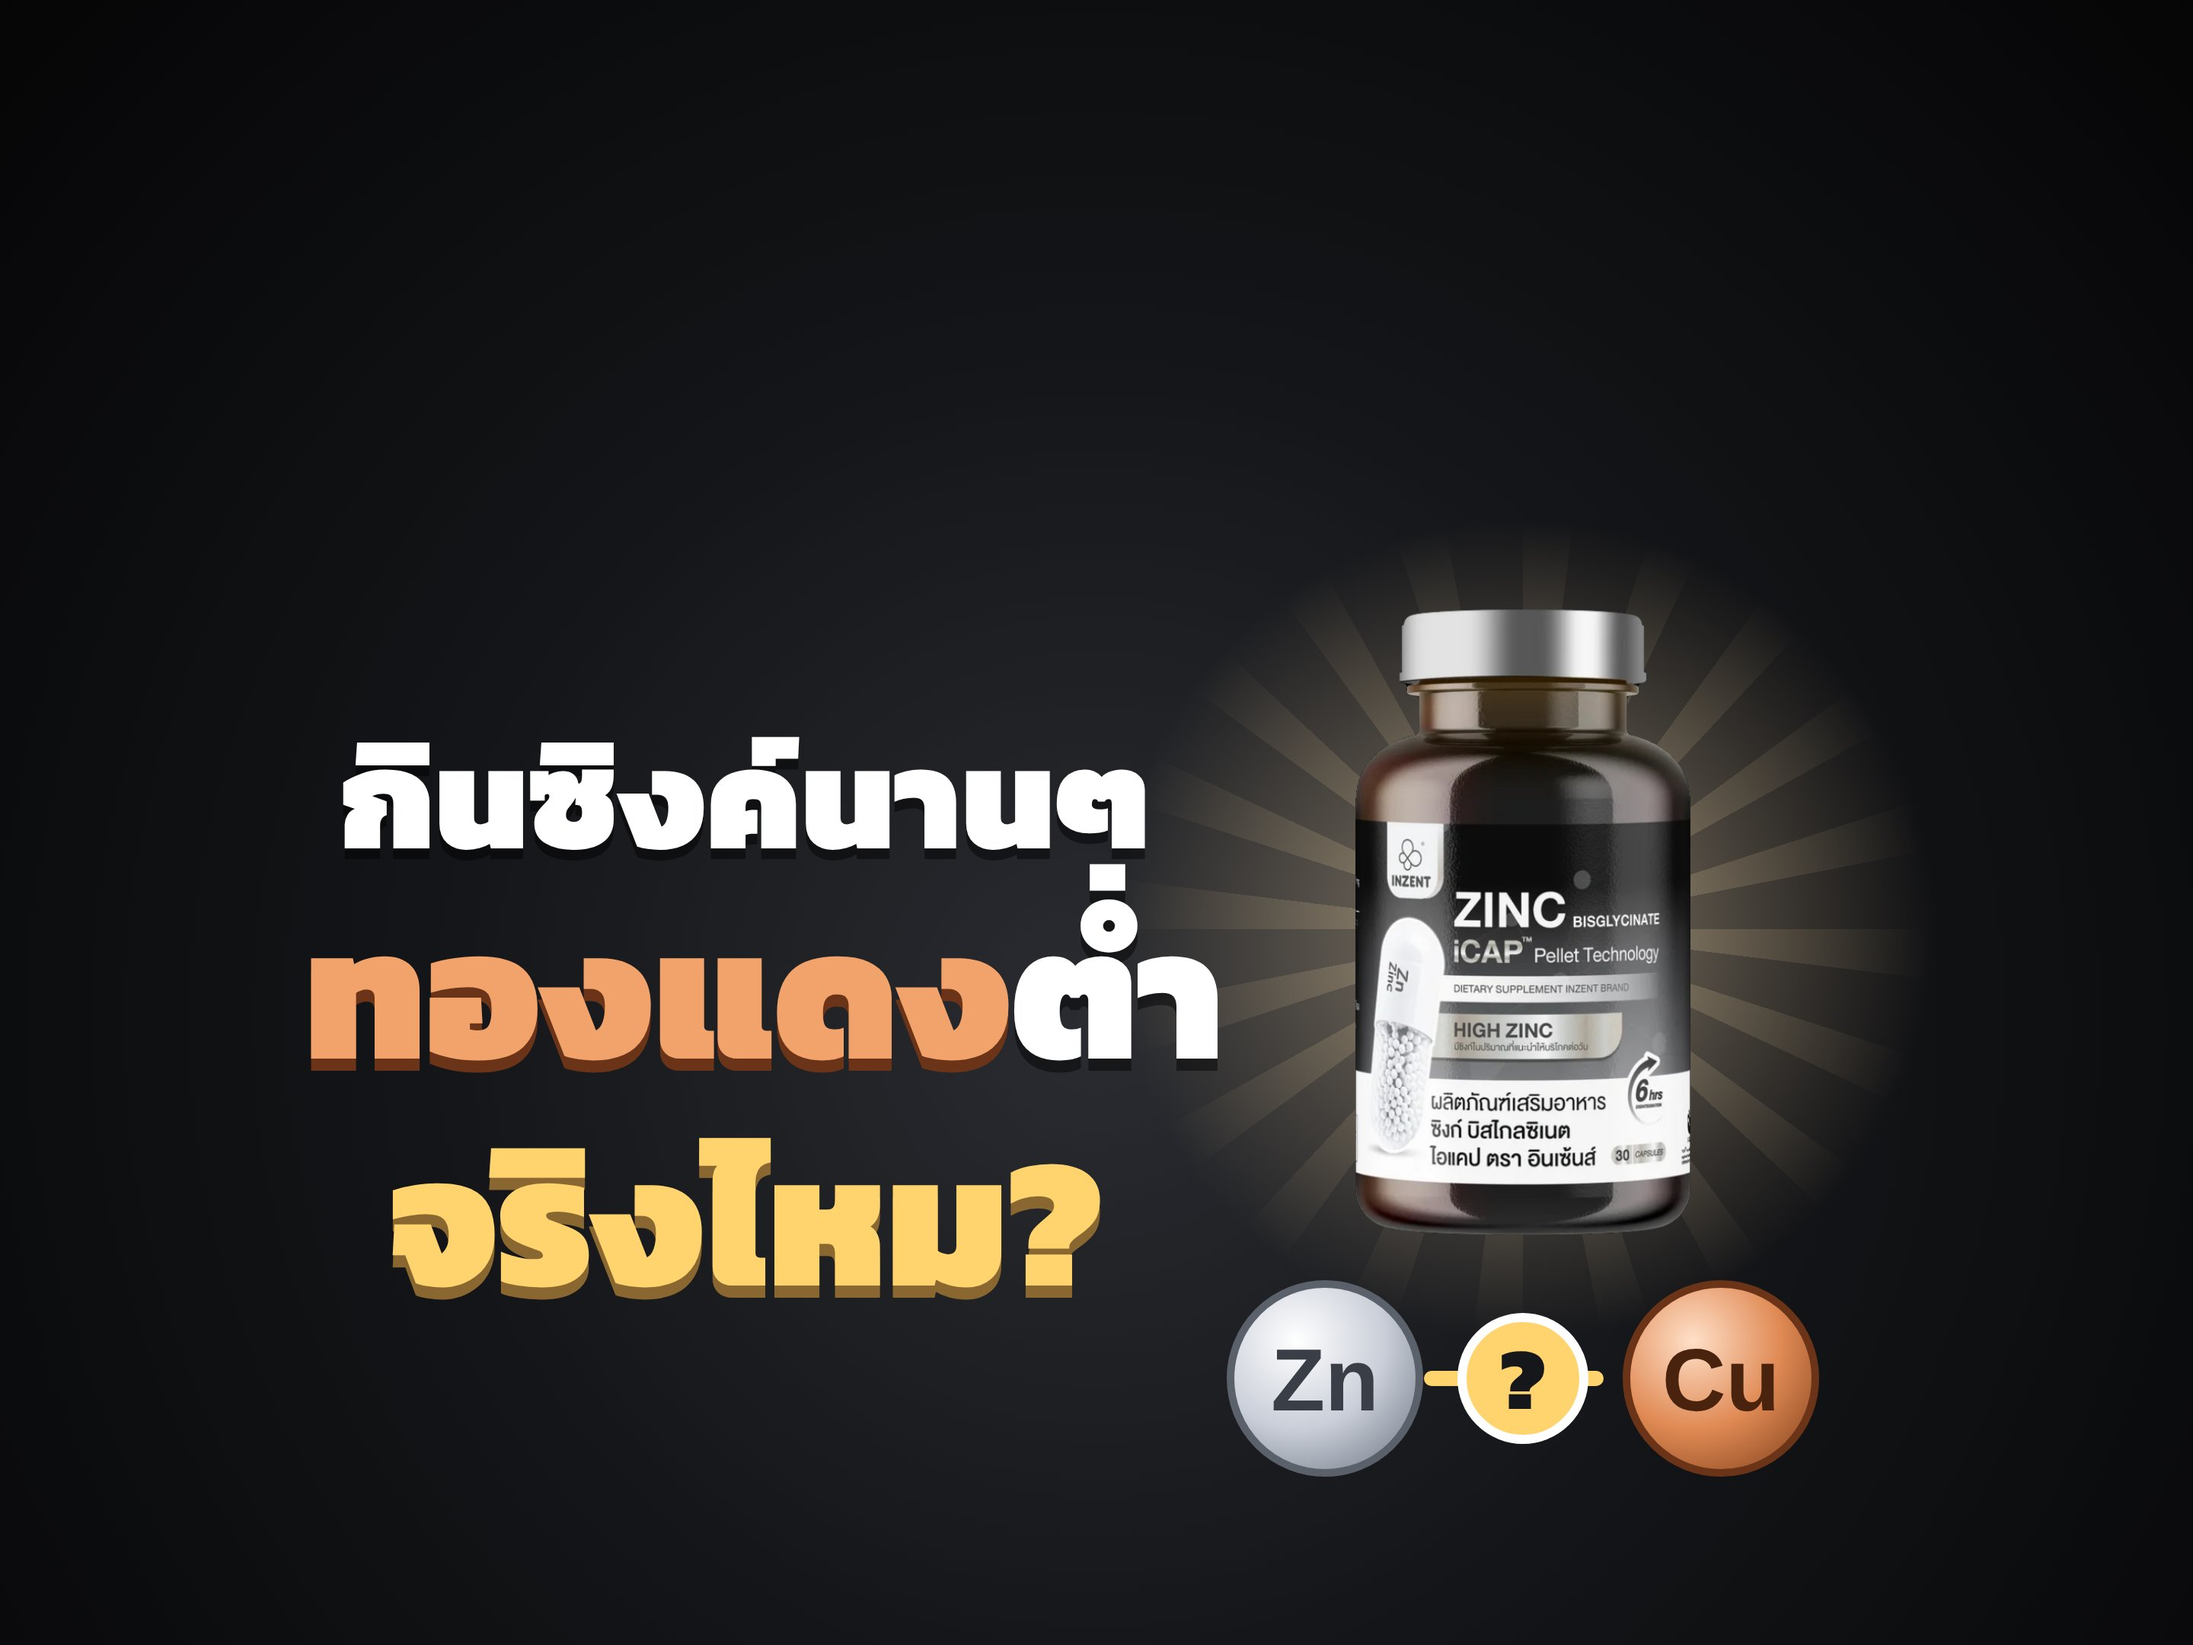
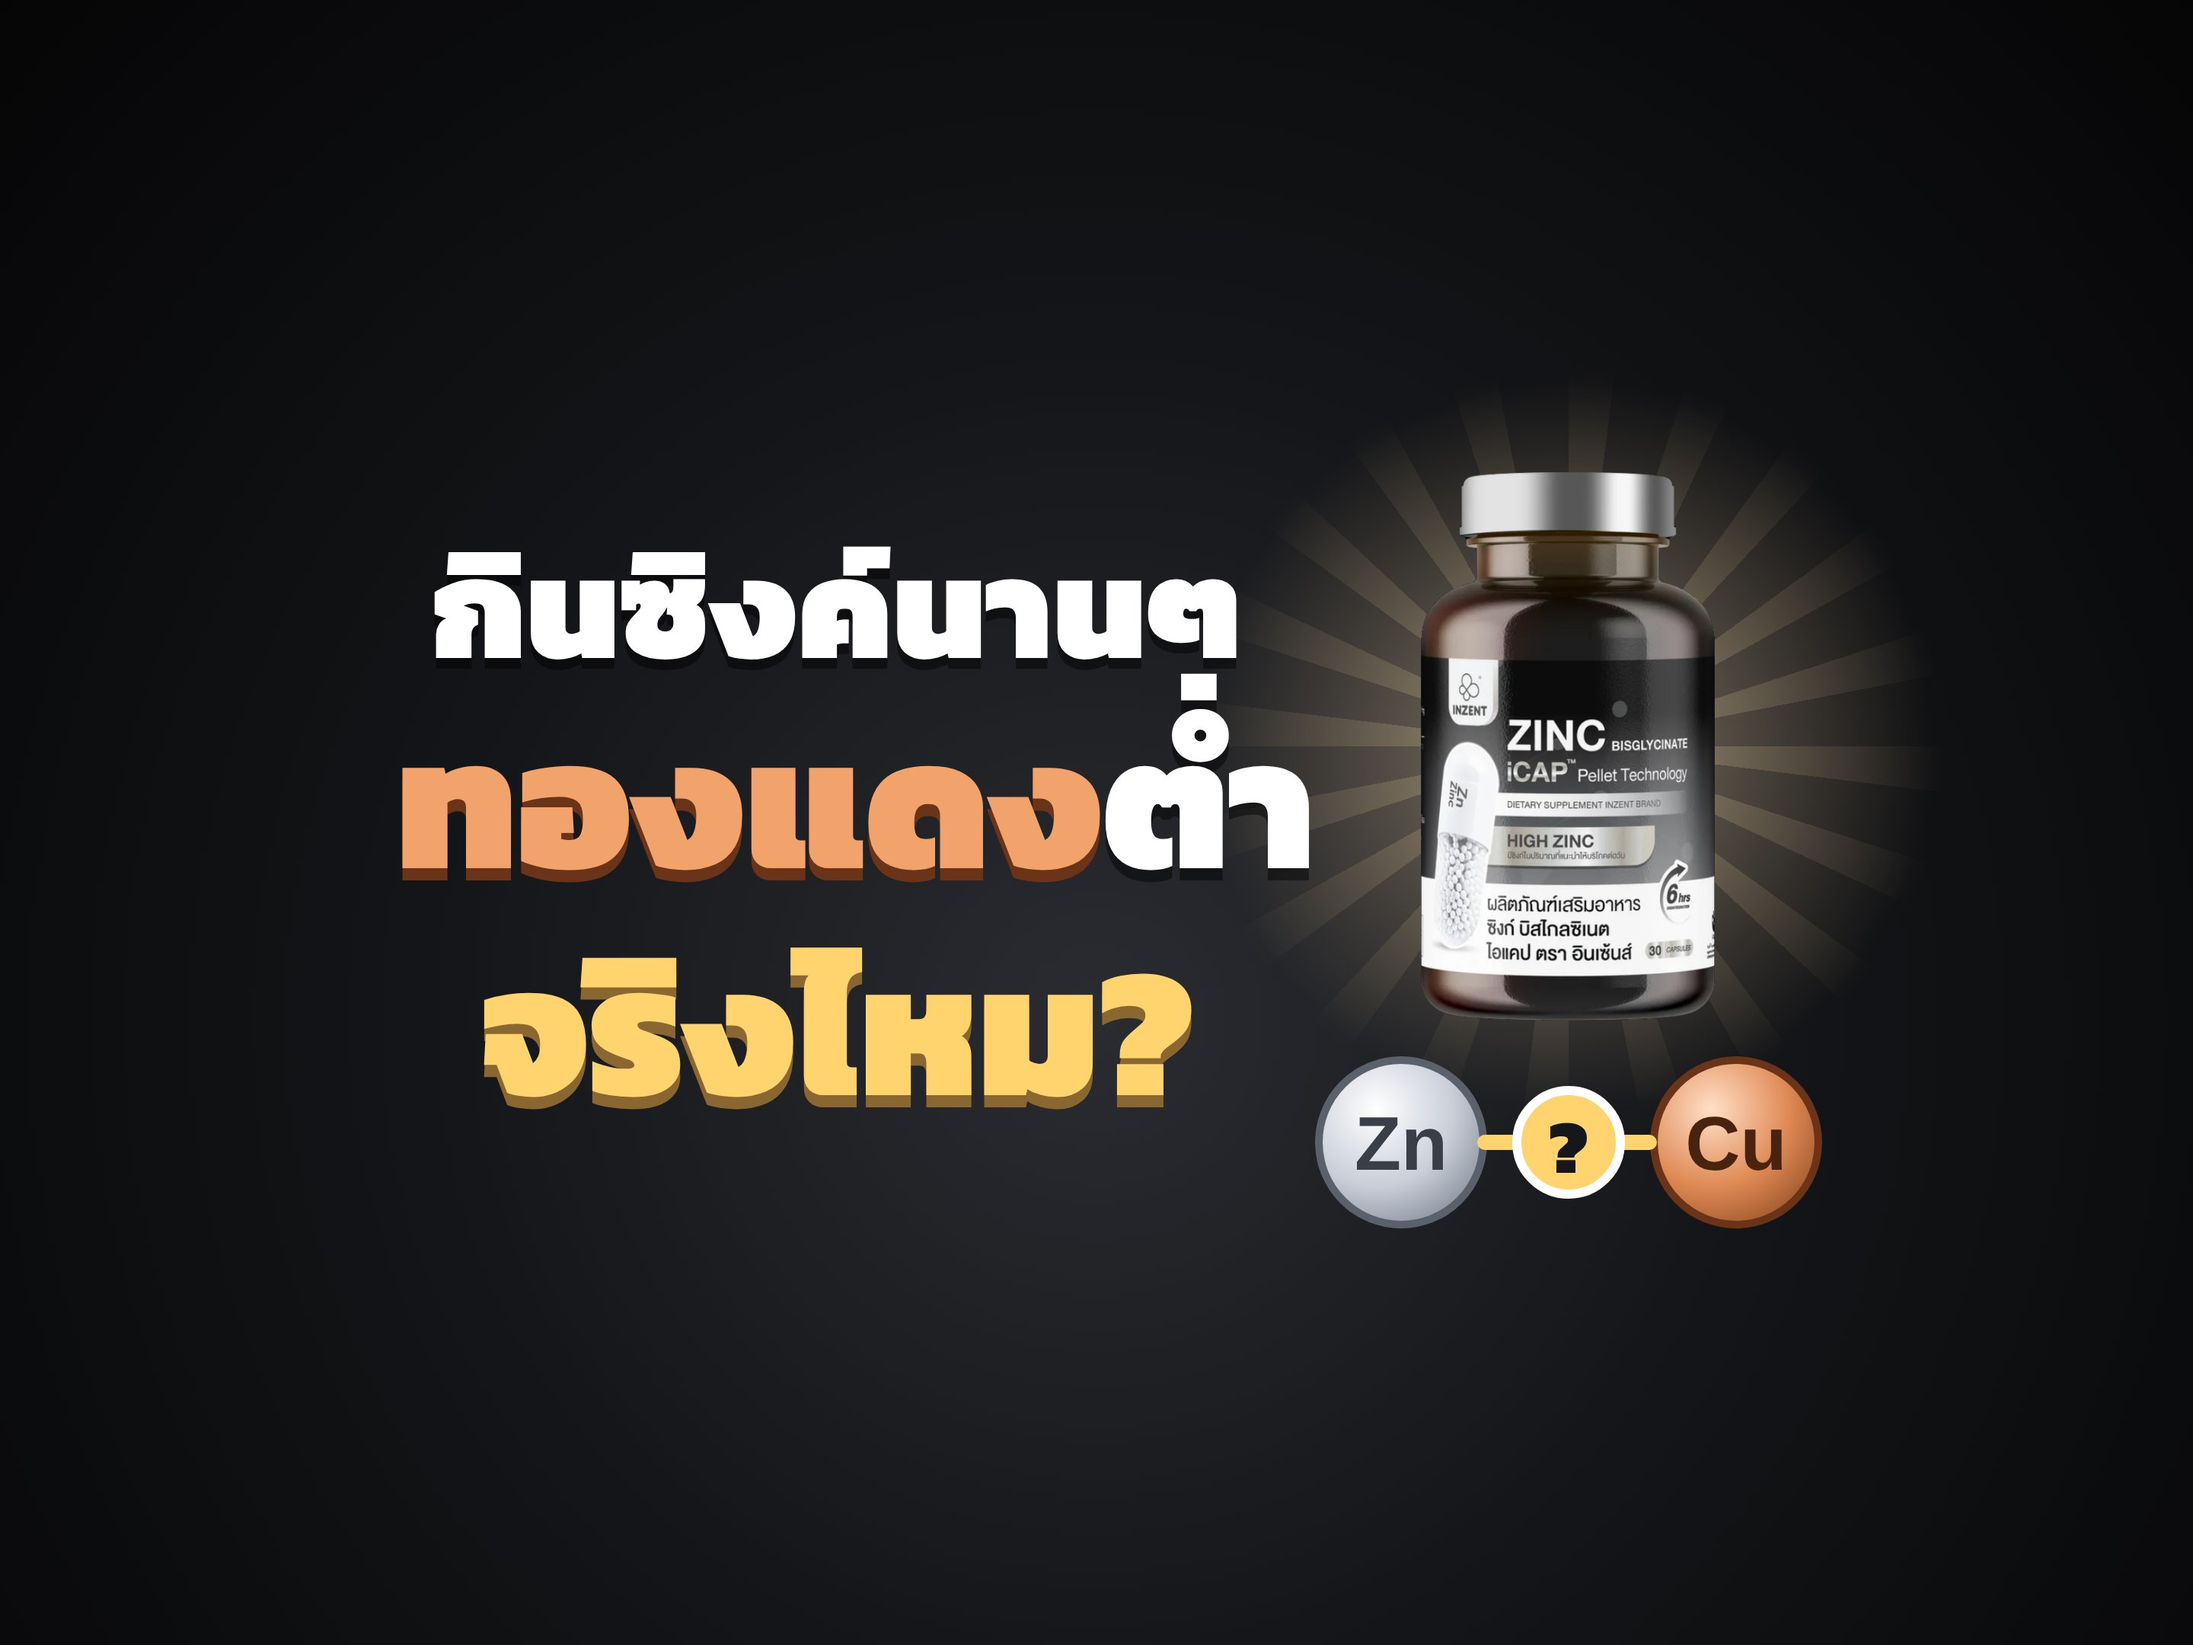
2111 cover: everything centered
Claude-Session: https://claude.ai/code/session_013vK57e4V6MU13RVwJvX1wC

Changed region(s): [[0.125, 0.2481, 0.875, 0.8995]]

diff --git a/output/src/2111/cover.html b/output/src/2111/cover.html
@@ -64,19 +64,19 @@ body{font-family:K,sans-serif;color:#fff}
 .cop{color:#F2A36B}
 </style></head><body>
 <div id="stage" style="background:radial-gradient(circle at 50% 62%,#2A2C31 0%,#141518 45%,#050506 100%)">
-<div class="rays" style="position:absolute;left:720px;top:330px;width:560px;height:560px;opacity:.8"></div>
+<div class="rays" style="position:absolute;left:770px;top:230px;width:520px;height:520px;opacity:.8"></div>
 <svg style="position:absolute;left:0;top:0;width:1440px;height:1080px" viewBox="0 0 1440 1080">
 <defs><radialGradient id="zz" cx=".35" cy=".3" r=".85"><stop offset="0" stop-color="#fff"/><stop offset=".55" stop-color="#C9CED8"/><stop offset="1" stop-color="#7C838F"/></radialGradient>
 <radialGradient id="cc" cx=".35" cy=".3" r=".85"><stop offset="0" stop-color="#FFE0C8"/><stop offset=".55" stop-color="#E08A55"/><stop offset="1" stop-color="#8E4A22"/></radialGradient>
 <radialGradient id="gw"><stop offset="0" stop-color="#FFECC8" stop-opacity=".5"/><stop offset="1" stop-color="#D9B98A" stop-opacity="0"/></radialGradient></defs>
-<circle cx="1000" cy="610" r="270" fill="url(#gw)"/>
-<image href="jar.png" x="890" y="400" width="220" height="411"/>
-<g transform="translate(870 905)"><circle r="62" fill="url(#zz)" stroke="#5B616B" stroke-width="5"/><text y="21" text-anchor="middle" font-family="Arial" font-weight="700" font-size="58" fill="#3A3F47">Zn</text></g>
-<g transform="translate(1130 905)"><circle r="62" fill="url(#cc)" stroke="#6B3418" stroke-width="5"/><text y="21" text-anchor="middle" font-family="Arial" font-weight="700" font-size="58" fill="#4A230E">Cu</text></g>
-<path d="M940 905 H1060" stroke="#FFD36E" stroke-width="10" stroke-dasharray="18 12" stroke-linecap="round"/>
-<g transform="translate(1000 905)"><circle r="40" fill="#FFD36E" stroke="#fff" stroke-width="6"/><text y="20" text-anchor="middle" font-family="K" font-weight="900" font-size="58" fill="#16171B">?</text></g>
+<circle cx="1030" cy="490" r="240" fill="url(#gw)"/>
+<image href="jar.png" x="933" y="310" width="193" height="360"/>
+<g transform="translate(920 750)"><circle r="54" fill="url(#zz)" stroke="#5B616B" stroke-width="5"/><text y="18" text-anchor="middle" font-family="Arial" font-weight="700" font-size="50" fill="#3A3F47">Zn</text></g>
+<g transform="translate(1140 750)"><circle r="54" fill="url(#cc)" stroke="#6B3418" stroke-width="5"/><text y="18" text-anchor="middle" font-family="Arial" font-weight="700" font-size="50" fill="#4A230E">Cu</text></g>
+<path d="M975 750 H1085" stroke="#FFD36E" stroke-width="10" stroke-dasharray="18 12" stroke-linecap="round"/>
+<g transform="translate(1030 750)"><circle r="34" fill="#FFD36E" stroke="#fff" stroke-width="6"/><text y="20" text-anchor="middle" font-family="K" font-weight="900" font-size="50" fill="#16171B">?</text></g>
 </svg>
-<div style="position:absolute;left:200px;top:470px;width:580px;text-align:center">
+<div style="position:absolute;left:260px;top:345px;width:580px;text-align:center">
  <div class="big" style="font-size:94px;color:#fff;text-shadow:0 7px 0 rgba(0,0,0,.45)">กินซิงค์นานๆ</div>
  <div class="big" style="font-size:122px;line-height:1.22"><span class="cop" style="text-shadow:0 8px 0 #6B3418">ทองแดง</span><span style="color:#fff;text-shadow:0 8px 0 rgba(0,0,0,.45)">ต่ำ</span></div>
  <div class="big" style="font-size:122px;line-height:1.22;color:#FFD36E;text-shadow:0 8px 0 #8A6731">จริงไหม?</div>
